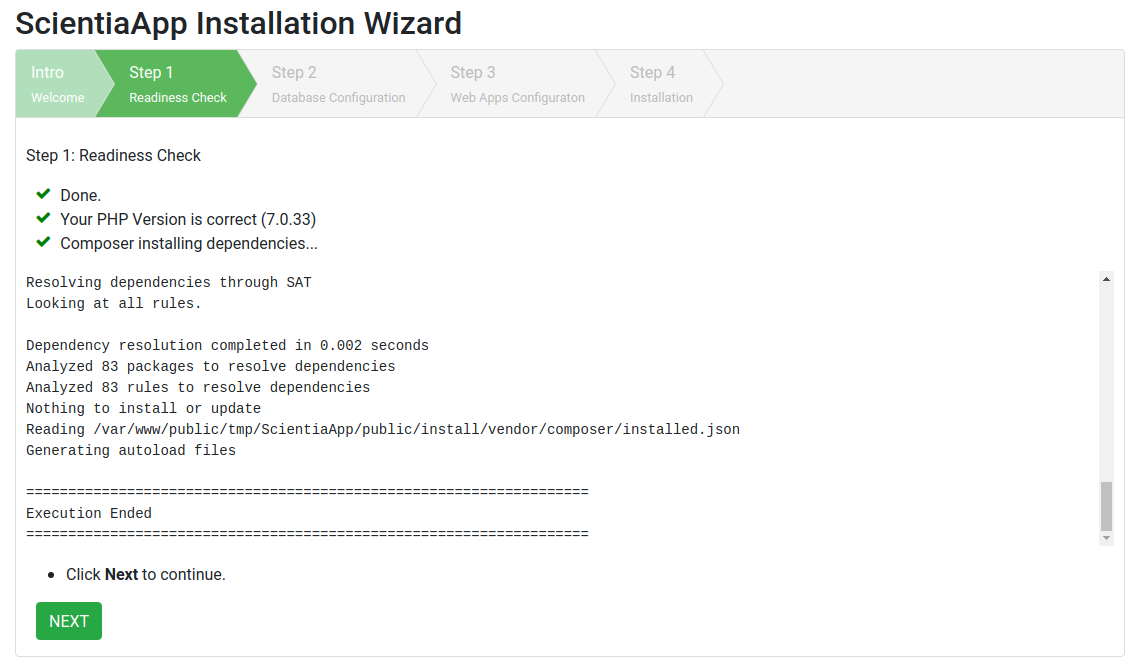
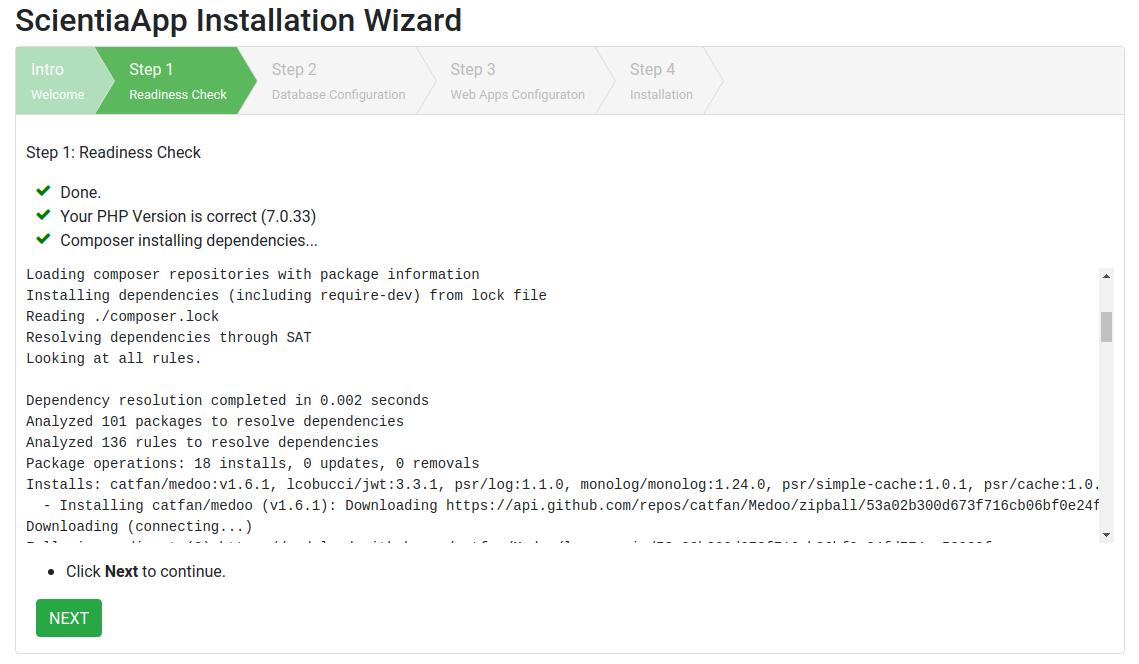
fix composer installation path & update screenshot

diff --git a/public/install/ajaxcall.php b/public/install/ajaxcall.php
@@ -133,7 +133,7 @@ function extractComposer()
 function composerInstall()
 {
     putenv('COMPOSER_HOME=' . __DIR__);
-    $path = getcwd() . '/';
+    $path = getcwd() . '/../../';
     if (!file_exists('extracted')) {
         extractComposer();
     }
